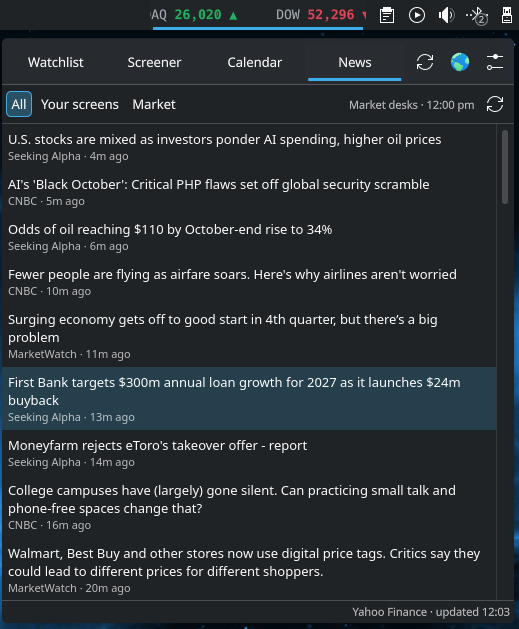
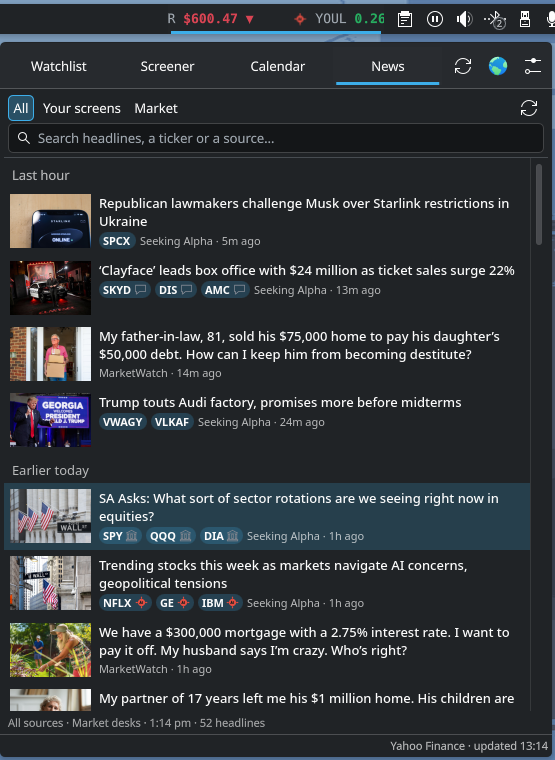
Docs for 1.2.0: theme guide, new screenshots, docs link test
Adds docs/themes.md, replaces the calendar, news and settings screenshots with v1.2.0 captures, updates the changelog, and adds tests/test_docs.py, which checks that every image and link in the docs points at a file that exists.

diff --git a/tests/test_docs.py b/tests/test_docs.py
@@ -1,0 +1,32 @@
+"""Checks that the documentation points at files that exist.
+
+Run from anywhere:  python3 tests/test_docs.py
+Looks at every local image and link in README.md, CHANGELOG.md and docs/*.md.
+"""
+import glob
+import os
+import re
+import unittest
+
+ROOT = os.path.abspath(os.path.join(os.path.dirname(__file__), ".."))
+DOCS = [os.path.join(ROOT, "README.md"), os.path.join(ROOT, "CHANGELOG.md")] + glob.glob(os.path.join(ROOT, "docs", "*.md"))
+LINK = re.compile(r"\]\(([^)\s]+)")
+
+
+class LocalLinks(unittest.TestCase):
+    def test_every_local_link_exists(self):
+        missing = []
+        for doc in DOCS:
+            base = os.path.dirname(doc)
+            with open(doc, encoding="utf-8") as f:
+                for target in LINK.findall(f.read()):
+                    if re.match(r"^(https?:|mailto:|#)", target):
+                        continue
+                    path = target.split("#", 1)[0]
+                    if path and not os.path.exists(os.path.normpath(os.path.join(base, path))):
+                        missing.append(f"{os.path.relpath(doc, ROOT)} -> {target}")
+        self.assertEqual(missing, [], "documentation links to files that do not exist")
+
+
+if __name__ == "__main__":
+    unittest.main()

diff --git a/docs/themes.md b/docs/themes.md
@@ -1,0 +1,127 @@
+# Themes and sectors (beta)
+
+A **theme** is a story that moves several stocks at once: a treasury company buying bitcoin, a run of drone contracts, a rare-earth push. The widget groups stocks by theme, scores each theme **hot, building, quiet or burnt** from what its members actually did that day, and shows the result on the tape, the screener and the Theme Hunter.
+
+A **sector** is the fallback: every stock has one, so a sector that keeps heating up is a cue to look for the story behind it. Sectors are Finviz's eleven groups for stocks and CoinGecko's categories for crypto.
+
+Themes are set up in **Settings → Themes**. The starter set (crypto treasury, Bitcoin miners, AI, nuclear and SMR, power and grid, critical minerals, drones and defense, space, cannabis) is there to edit or delete.
+
+---
+
+## 1. Setting up your first theme
+
+1. Open **Settings → Themes** and click **Add a theme**.
+2. Give it a name, for example *Rare earths*.
+3. Pick a glyph. It is the icon the theme shows on the tape and the screener.
+4. In the **Headline words** field, list the words a catalyst headline would contain (see section 2).
+5. Optionally, in the **Pinned tickers** field, list tickers that belong to the theme whatever their headlines say.
+6. Keep **Stocks** or switch to **Crypto**, depending on what the theme is about.
+7. Tick the box at the start of the row so the theme is on.
+
+Then wait for a stock to get a headline that matches. Its row in the screener gets the theme's glyph in the **Theme** column, and hovering over the glyph explains why.
+
+![Settings → Themes: the theme and sector settings, with the icon colours and each sector's icon](screenshots/themes-settings.png)
+
+![Settings → Themes: your themes, each with its glyph, headline words and pinned tickers](screenshots/themes-custom.png)
+
+To see theme tickers on the tape as well, add the Themes entry in **Settings → Symbols** (the button **Add the Themes entry (beta)**). It is starred by default, so it sits on the tape as a slot that fills with the tickers of themes running hot.
+
+---
+
+## 2. How a stock joins a theme
+
+Each stock is placed on the first rule that fits, in this order:
+
+1. **Pinned.** The ticker is listed in the theme's pinned tickers. A pin counts from the day it was made, so earlier days are not rewritten.
+2. **Headline words.** The stock's newest headline contains one of the theme's words. The first theme in the list that matches wins.
+3. **Sticky.** The headline matched a theme recently. The stock stays on that theme for **10 sessions** (adjustable), so follow-up news without the magic words still counts.
+4. **Sector.** No theme fits, so the stock is counted in its sector instead.
+
+### Writing headline words
+
+| Syntax | Matches | Example |
+|---|---|---|
+| `word` | the word as a whole word | `uranium` matches "uranium", not "uraniumite" |
+| `word*` | any word starting with `word` | `drone*` matches "drone", "drones", "drone strike" |
+| `a \| b` | either term | `eth \| sol` matches either |
+| `a + b` | both terms in one headline, within 60 characters | `treasury + bitcoin` |
+
+Keep words specific. `ai` on its own matches far too much, so the starter AI theme uses longer phrases such as "large language" and "data center*".
+
+---
+
+## 3. Reading the heat
+
+Every day a theme gets a status from its members' best moves that day:
+
+| Status | Colour | What it means |
+|---|---|---|
+| **Hot** | red (heat ramp) | At least **2 members ran** (up 30% or more at some point during the day), and at least **2 times** the number expected from the theme's recent days. |
+| **Building** | amber | At least **1 member ran**, at least **2 members** are on it, and the runners are at least **1.5 times** what is expected. |
+| **Quiet** | grey | Nothing that qualifies. |
+| **Burnt** | blue, crossed out | It was hot, and nothing in it has run for **30 days** (adjustable). |
+
+"Expected" is the theme's own recent average, scaled to how many members it has today. The first five sessions have no baseline yet, so a theme is judged on its runner count alone.
+
+Hot and building themes show filled glyphs on the tape. Quiet and burnt themes show outlines.
+
+### Which screens feed themes
+
+Only stocks from screens that **feed the themes** count. Alert screens such as Running Up and High of Day do so by default. The list screens (Top Gainers, Top Losers, Deep Value) do not. You can change this for each screen under **Settings → Screeners**, with the option **Its stocks build the theme and sector heat**.
+
+### The tape
+
+Theme tickers reach the tape only when the **Themes** entry is starred in **Settings → Symbols**. Then **Settings → Tape** controls the rest:
+
+| Setting | Default | What it does |
+|---|---|---|
+| **Show tickers of themes** | Hot themes only | Choose **Hot and building themes** to include building ones. |
+| **At most** | 10 tickers | The most theme tickers on the tape at once. |
+| **A ticker leaves when** | 20% below its session high | A running stock drops off once it fades this far from its peak. |
+| **Only tickers above their 200-day EMA** | on | Keeps only stocks trading above their 200-day average. |
+| **Replay** (outside market hours, show the last session's theme tickers) | off | Turn on to see the last session's theme tickers after the close. |
+| **Before each ticker** | The theme's name | What comes before each ticker: the theme's name, its icon, or both. |
+
+During a session, a strong theme's tickers show while they are still running. A strong theme with nothing running keeps its slot, under its name and state, until a ticker runs again or the theme fades.
+
+![Settings → Tape: the theme section, with theme tickers set to hot and building themes](screenshots/settings-tape.png)
+
+---
+
+## 4. Theme Hunter
+
+The **Theme Hunter** screen lists:
+- the hot and building themes and sectors, with their members
+- the runners no theme claims yet
+
+If a sector keeps heating up and its runners share a headline, that is the next theme to define. Open one of its runners, read the headline, and list its words in a new theme.
+
+---
+
+## 5. Settings that change how themes behave
+
+| Setting | Default | What it does |
+|---|---|---|
+| **Stays on a theme for** | 10 sessions | How long a stock stays on a theme after its headline last matched. |
+| **Burnt after** (shown as "days with no runner") | 30 days | Days with no runner before a theme that was hot turns burnt. Range 1 to 90. |
+| Tape: **Show tickers of themes** (Settings → Tape) | Hot themes only | Which themes' stocks appear on the tape. |
+
+Colours are set under **Settings → Themes**: a colour scheme for the icons ("Icon colours"), and a colour per theme or sector if you want one.
+
+---
+
+## 6. Tips
+
+- **Start with pins** for a company you already know is in a theme. Headlines come and go; pins stay.
+- **Check the hover text** on the Theme column. It shows the status, runners, expected count and the reason.
+- **Expect quiet.** Most themes will be quiet most of the time. That is the design: a theme should only light up when something happens.
+- **Mind the day.** Crypto themes run on UTC days. Stock themes follow the US session.
+
+---
+
+## 7. Limits
+
+- Themes come from headlines, so a theme is only as good as its words. A catalyst that the words miss will not show.
+- Ranking uses each day's best move, read while the stock was on a screen. A stock that was never on a screen that day cannot count.
+- This is a beta. The rules may change; the glyphs and the settings are the stable part.
+- Themes are a way to notice patterns, not a recommendation to trade them.

diff --git a/README.md b/README.md
@@ -72,7 +72,7 @@ The week's market-moving economic releases (CPI, jobs, Fed, PMI and more) with e
 
 ### New in 1.2 (beta)
 
-- **Themes and sectors (beta).** Each stock is matched to a theme, the tradeable story behind it (one of yours, by its newest headline's words or a ticker you pin), or else to its sector. Each is scored hot, building, quiet or burnt from what its members actually did. Set them up in **Settings → Themes**; right-click a screener row to make a theme from its headline, pin the ticker to one, or set its sector.
+- **Themes and sectors (beta).** Each stock is matched to a theme, the tradeable story behind it (one of yours, by its newest headline's words or a ticker you pin), or else to its sector. Each is scored hot, building, quiet or burnt from what its members actually did. Set them up in **Settings → Themes**; right-click a screener row to make a theme from its headline, pin the ticker to one, or set its sector. **How they work, how to write headline words and how to read the heat is in [docs/themes.md](docs/themes.md).**
 - **The Theme column.** One column on the screener: the theme's glyph when the stock has one, else its sector's, coloured by how hot it is. Hover it for why. Sort it to put the hottest first.
 - **Theme Hunter (beta).** A screen of its own: hot themes, hot sectors, and the runners no theme claims yet: runners under a heating sector that share a headline are the next theme to define.
 - **Crypto screens.** Crypto Running Up, Crypto 24h High and Crypto Gainers watch Coinbase pairs around the clock. Add them from **Settings → Screeners**.
@@ -80,9 +80,13 @@ The week's market-moving economic releases (CPI, jobs, Fed, PMI and more) with e
 - **Performance presets.** **Settings → Performance**: *Full* (every stock every pass, for a desktop), *Balanced*, or *Light* (a laptop or a metered connection), or set each control yourself.
 - **Scorecards know themes.** A scorecard rule can test the row's theme or sector: its heat, how many members it has today, how many ran.
 
-| Calendar | News |
-|---|---|
-| ![Calendar](docs/screenshots/calendar.png) | ![News](docs/screenshots/news.png) |
+| Calendar: day | Calendar: week | Calendar: month |
+|---|---|---|
+| ![The calendar's day view: releases in time order, then the reporters](docs/screenshots/calendar.png) | ![The calendar's week view: Monday to Friday side by side](docs/screenshots/calendar-week.png) | ![The calendar's month view: a grid with importance dots](docs/screenshots/calendar-month.png) |
+
+| News |
+|---|
+| ![The News tab: market desks and headlines for the stocks on your screens, as cards](docs/screenshots/news.png) |
 
 ---
 
@@ -137,7 +141,7 @@ Right-click the tape → **Configure Plasma Ticker Tape…**
 | **Symbols** | Your watchlist. Search to add, ★ to put on the tape, drag to reorder |
 | **Screeners** | The stock pool, and every screen: type, trigger, filters, scorecard and sound |
 | **Scorecards** | Named rule sets, for example *price $2–$20, up 10%+, relative volume 5×+, float under 20M, news today* |
-| **Themes** (beta) | Your themes and sectors: their words, pinned tickers and icons, and how heat is scored |
+| **Themes** (beta) | Your themes and sectors: their words, pinned tickers and icons, and how heat is scored. See [docs/themes.md](docs/themes.md) |
 | **Tape** | Scroll speed, width, refresh rate, the VIX fear line |
 | **Performance** | How often the widget asks for data, and how much: Full, Balanced, Light or Custom |
 | **Data** | Where the data comes from, and which earnings you care about (below) |
@@ -148,7 +152,13 @@ Right-click the tape → **Configure Plasma Ticker Tape…**
 
 | Tape | About |
 |---|---|
-| ![Settings → Tape: scroll speed, width, refresh and the VIX fear line](docs/screenshots/settings-tape.png) | ![Settings → About](docs/screenshots/settings-about.png) |
+| ![Settings → Tape: scroll speed, width, refresh, the VIX fear line and the theme tickers on the tape](docs/screenshots/settings-tape.png) | ![Settings → About: the version, licence and links](docs/screenshots/settings-about.png) |
+
+| Themes (beta) | Performance |
+|---|---|
+| ![Settings → Themes: your themes, each with its glyph, headline words and pinned tickers](docs/screenshots/themes-custom.png) | ![Settings → Performance: the presets and how often each check runs](docs/screenshots/settings-performance.png) |
+
+The theme settings are explained in the [themes guide](docs/themes.md).
 
 ### Data
 
@@ -215,7 +225,7 @@ package/
     └── code/
         ├── scannerbridge.py   what the widget calls; prints one line of JSON
         └── scanner/           the data gathering: lists, Finviz, SEC, calendar, news
-tests/                         offline checks, run with python3 tests/test_glyphs.py
+tests/                         offline checks: icons, the scanner bridge and documentation links
 ```
 
 The tape, the screener and the news search talk to their sources directly from QML (Yahoo Finance, CoinGecko, Coinbase, Google News). The scanner's lists, Finviz, SEC EDGAR, the calendar and the headline feeds go through `scannerbridge.py`. You can run it by hand to see exactly what the widget gets:
@@ -232,9 +242,10 @@ The `""` means the built-in scanner. Any failure prints `{"error": …}`, and th
 
 ```bash
 python3 tests/test_glyphs.py
+python3 tests/test_docs.py
 ```
 
-Checks that every icon in the library is valid SVG, that every theme and sector points at an icon that exists, and that the scanner bridge compiles and reports errors as JSON. The icon checks need [Node.js](https://nodejs.org/) and are skipped without it. The tests run offline; they do not call any data source.
+`test_glyphs.py` checks that every icon in the library is valid SVG, that every theme and sector points at an icon that exists, and that the scanner bridge compiles and reports errors as JSON. Its icon checks need [Node.js](https://nodejs.org/) and are skipped without it. `test_docs.py` checks that every image and link in the documentation points at a file that exists. The tests run offline; they do not call any data source.
 
 ### Troubleshooting
 

diff --git a/CHANGELOG.md b/CHANGELOG.md
@@ -2,7 +2,7 @@
 
 Newest first. Versions follow `package/metadata.json`.
 
-## 1.2.0 (beta), not yet released
+## 1.2.0 (beta)
 
 The first release after 1.0.1. Everything below is the 1.2 work.
 
@@ -17,6 +17,8 @@ The first release after 1.0.1. Everything below is the 1.2 work.
 - **Currencies** on any screen: US dollars, euros, pounds, yen, Canadian and Australian dollars, Swiss francs, bitcoin or ether.
 - **Performance presets**: Full, Balanced, Light or Custom.
 - **Filings link** on each stock's card: opens its filings on BamSEC.
+- **Theme guide** in [docs/themes.md](docs/themes.md): setting up a theme, how a stock joins one, how the heat is read, and the tape settings.
+- **Screenshots** of the 1.2 calendar (day, week and month), news, themes and tape settings.
 
 ### Changed
 - The news list on a stock's card uses the same card layout as the News tab.
@@ -28,6 +30,7 @@ The first release after 1.0.1. Everything below is the 1.2 work.
 - Crypto symbols that Coinbase does not list (Monero, for example) now resolve through Yahoo.
 - Crypto icons no longer depend on a live lookup each time the widget starts.
 - The scanner bridge prints a usage message when run without arguments, instead of a Python error.
+- Screener rows keep their place while live data updates, instead of jumping to the top or flickering once a second.
 
 ## 1.0.1
 
